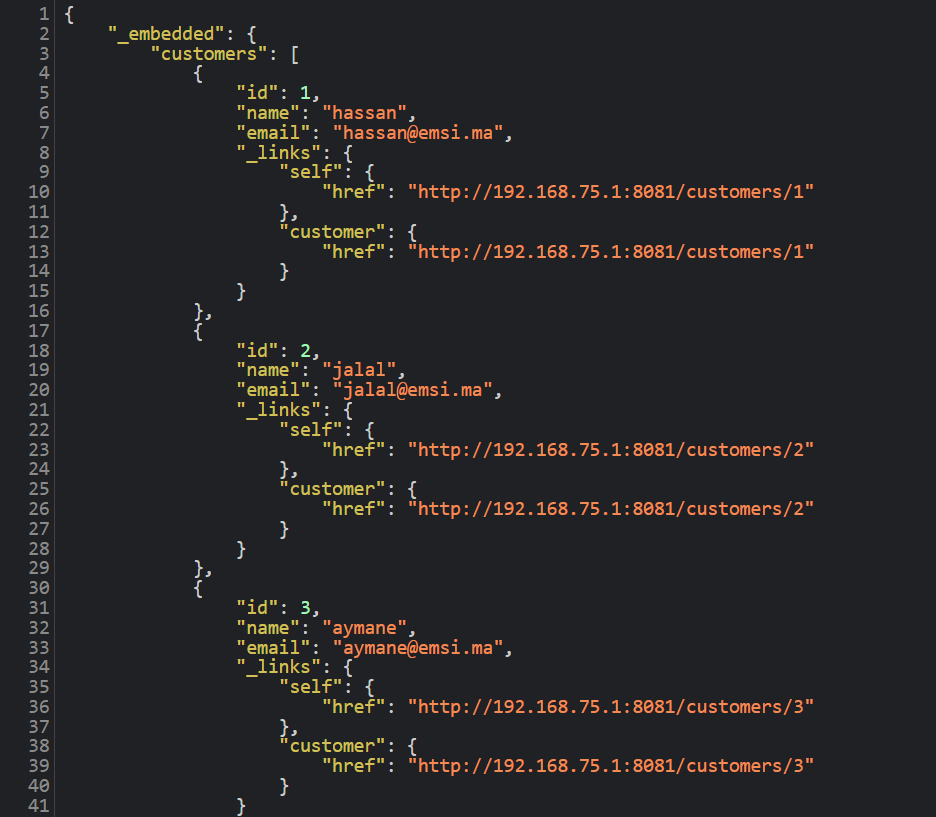
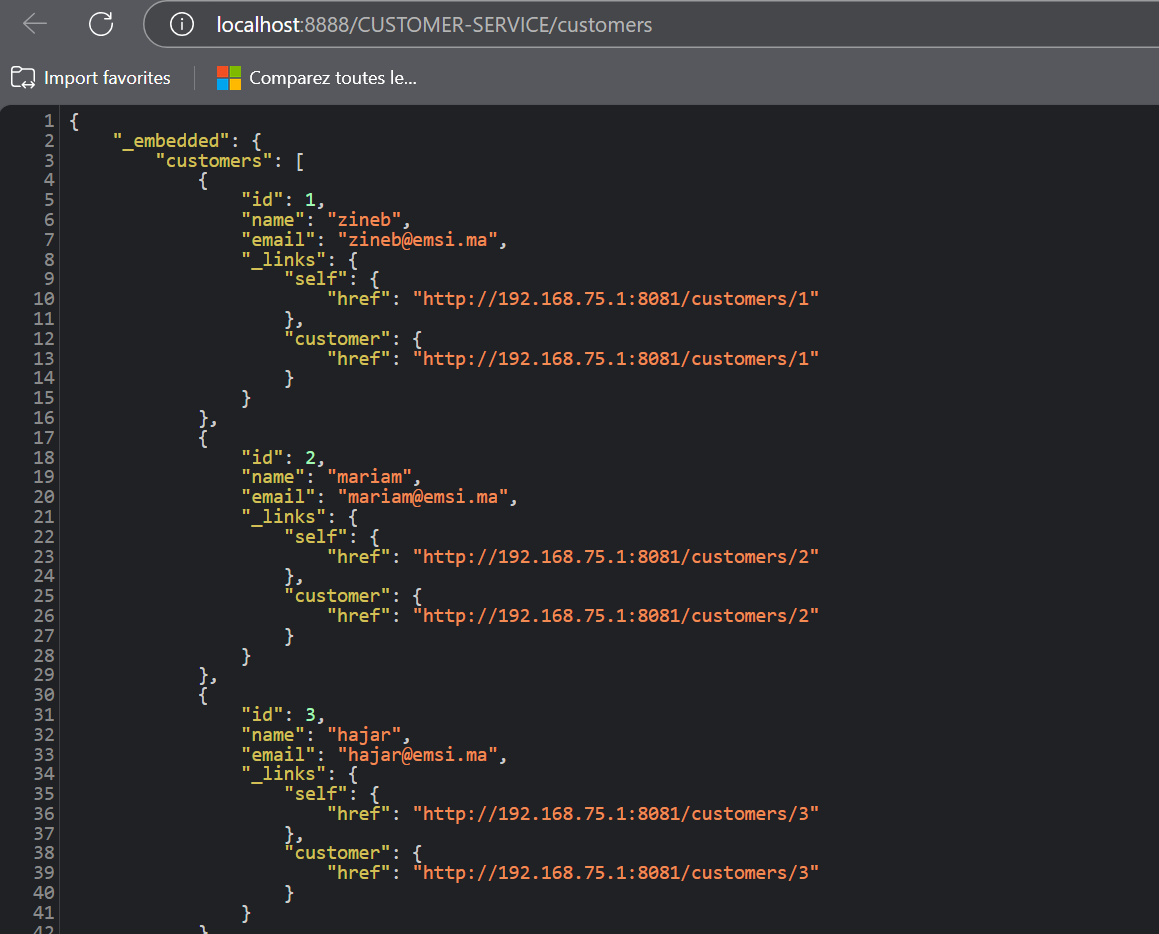
commit2

diff --git a/customer-service/src/main/java/ma/emsi/customerservice/CustomerServiceApplication.java b/customer-service/src/main/java/ma/emsi/customerservice/CustomerServiceApplication.java
@@ -26,9 +26,9 @@ public class CustomerServiceApplication {
           restConfiguration.exposeIdsFor(Customer.class);
           customerRepository.saveAll(
                   List.of(
-                          Customer.builder().name("hassan").email("hassan@emsi.ma").build(),
-                          Customer.builder().name("jalal").email("jalal@emsi.ma").build(),
-                          Customer.builder().name("aymane").email("aymane@emsi.ma").build()
+                          Customer.builder().name("zineb").email("zineb@emsi.ma").build(),
+                          Customer.builder().name("mariam").email("mariam@emsi.ma").build(),
+                          Customer.builder().name("hajar").email("hajar@emsi.ma").build()
                   )
           );
         };
